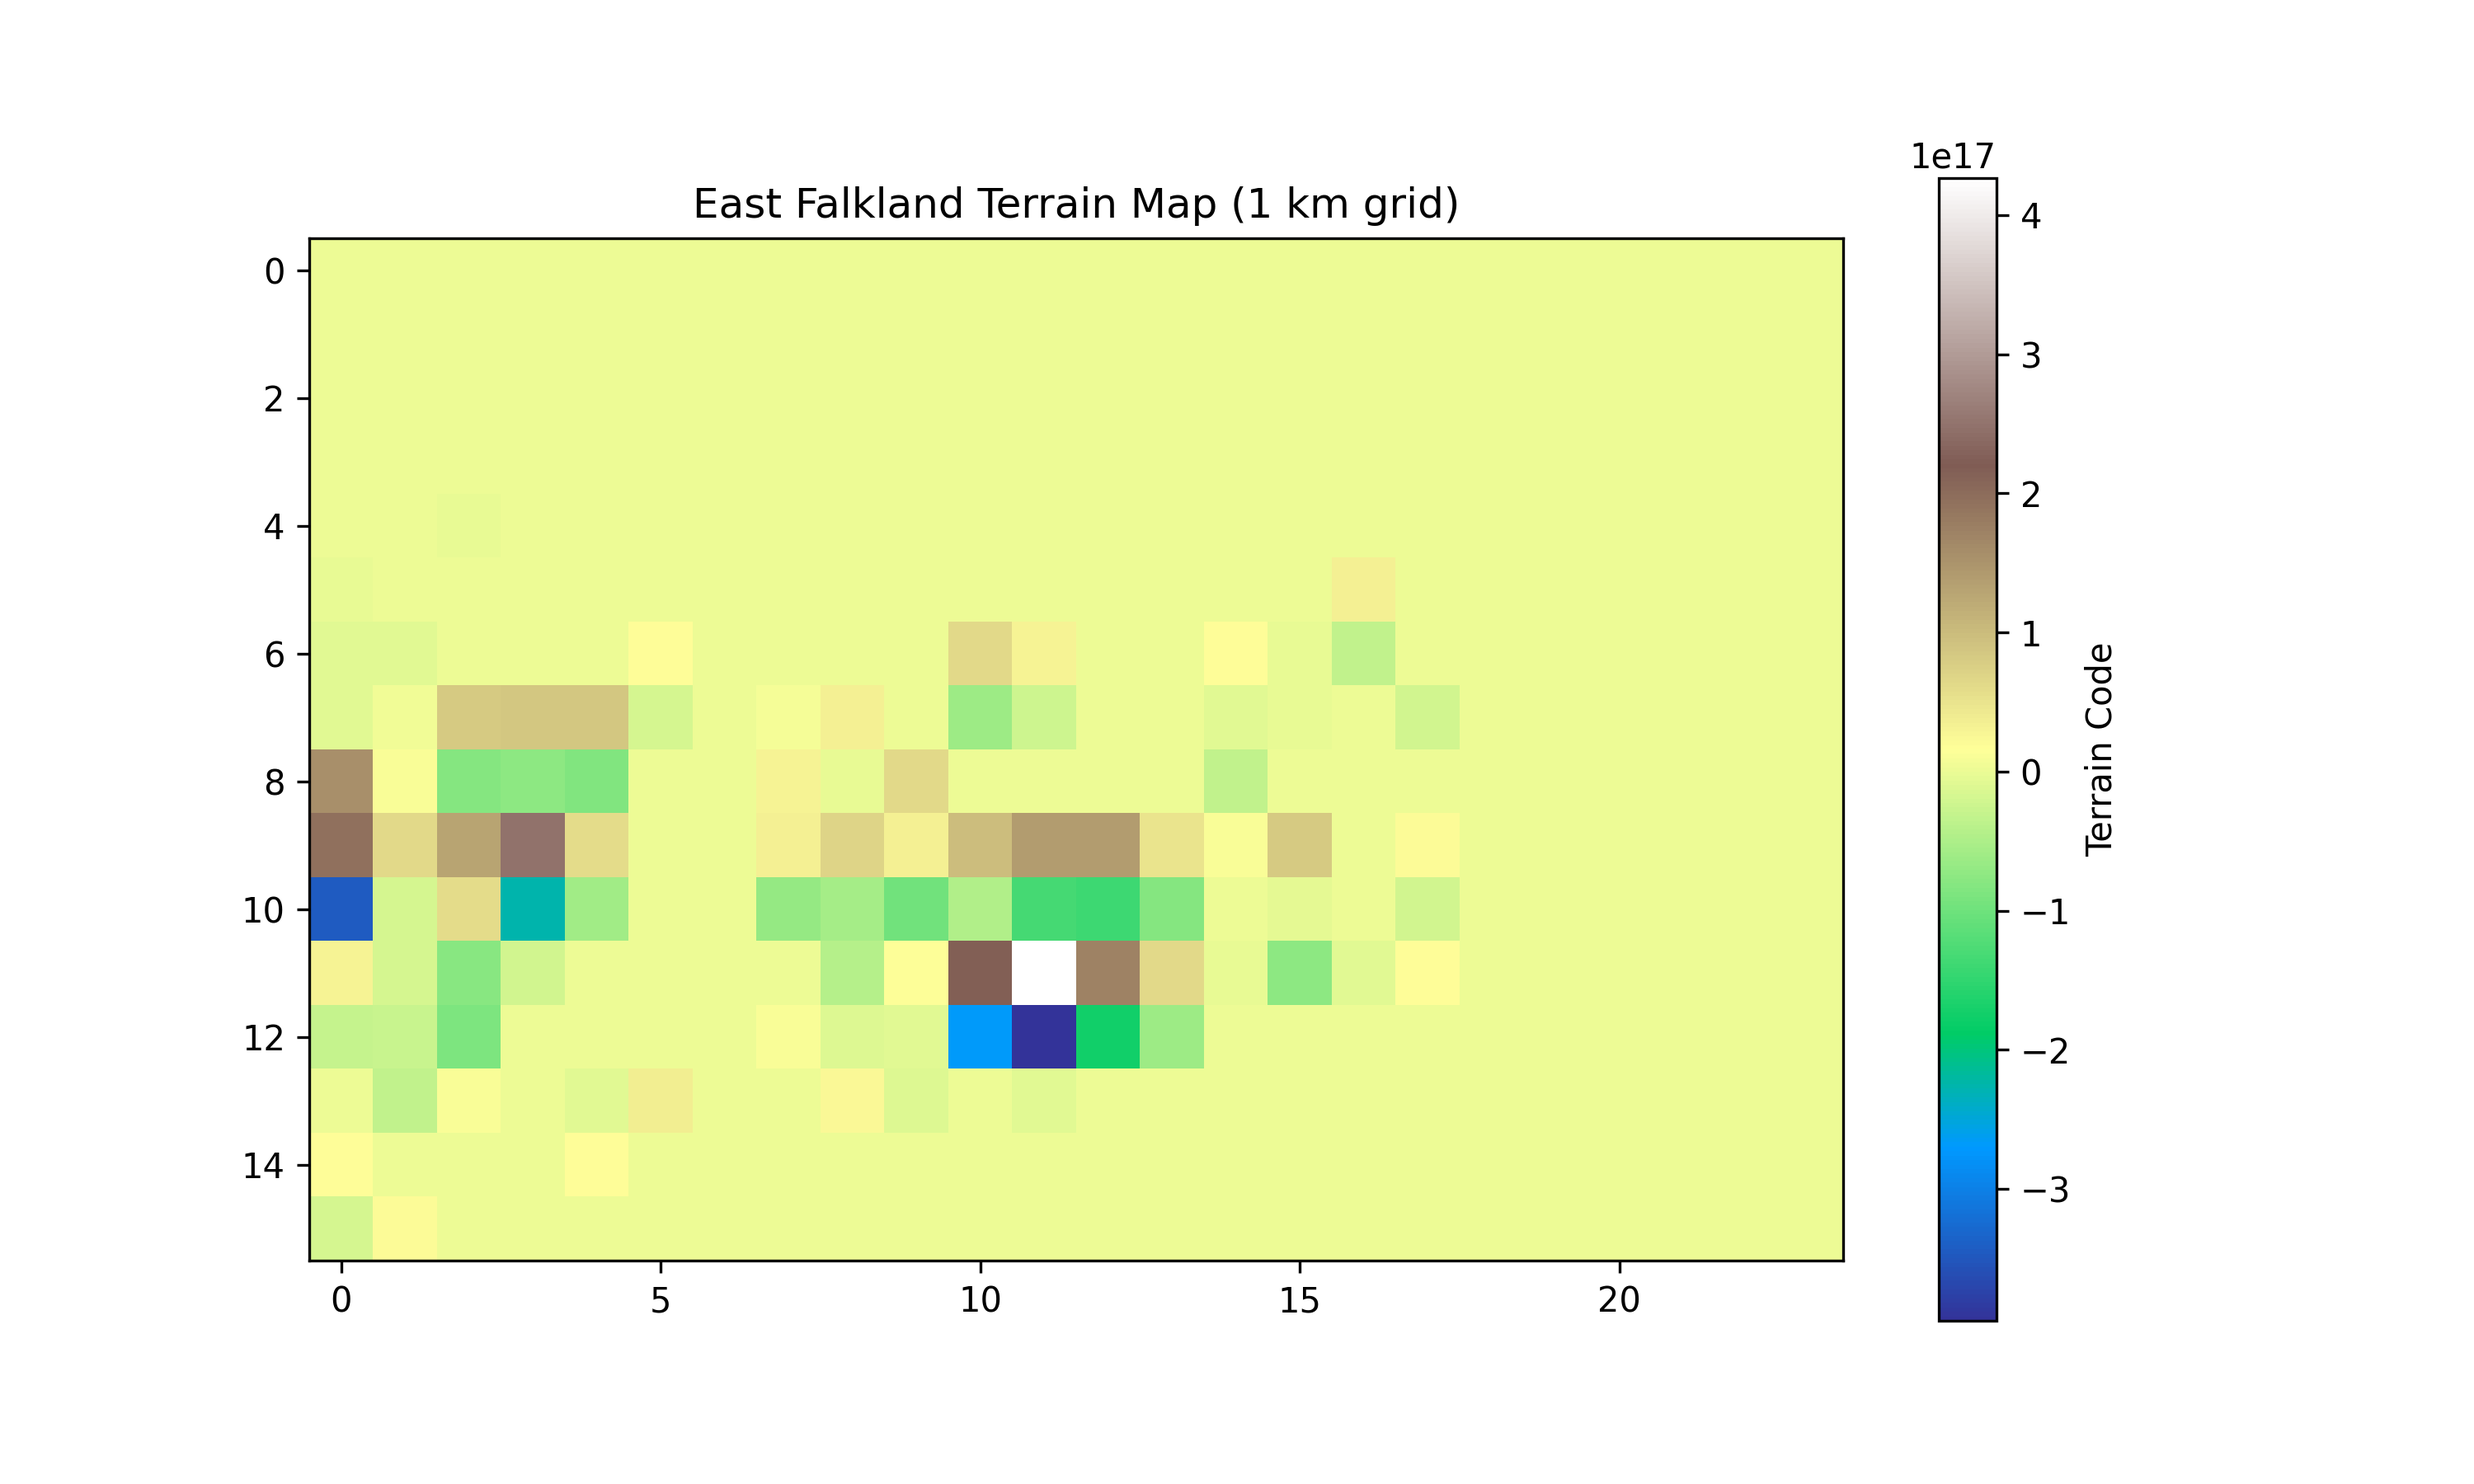
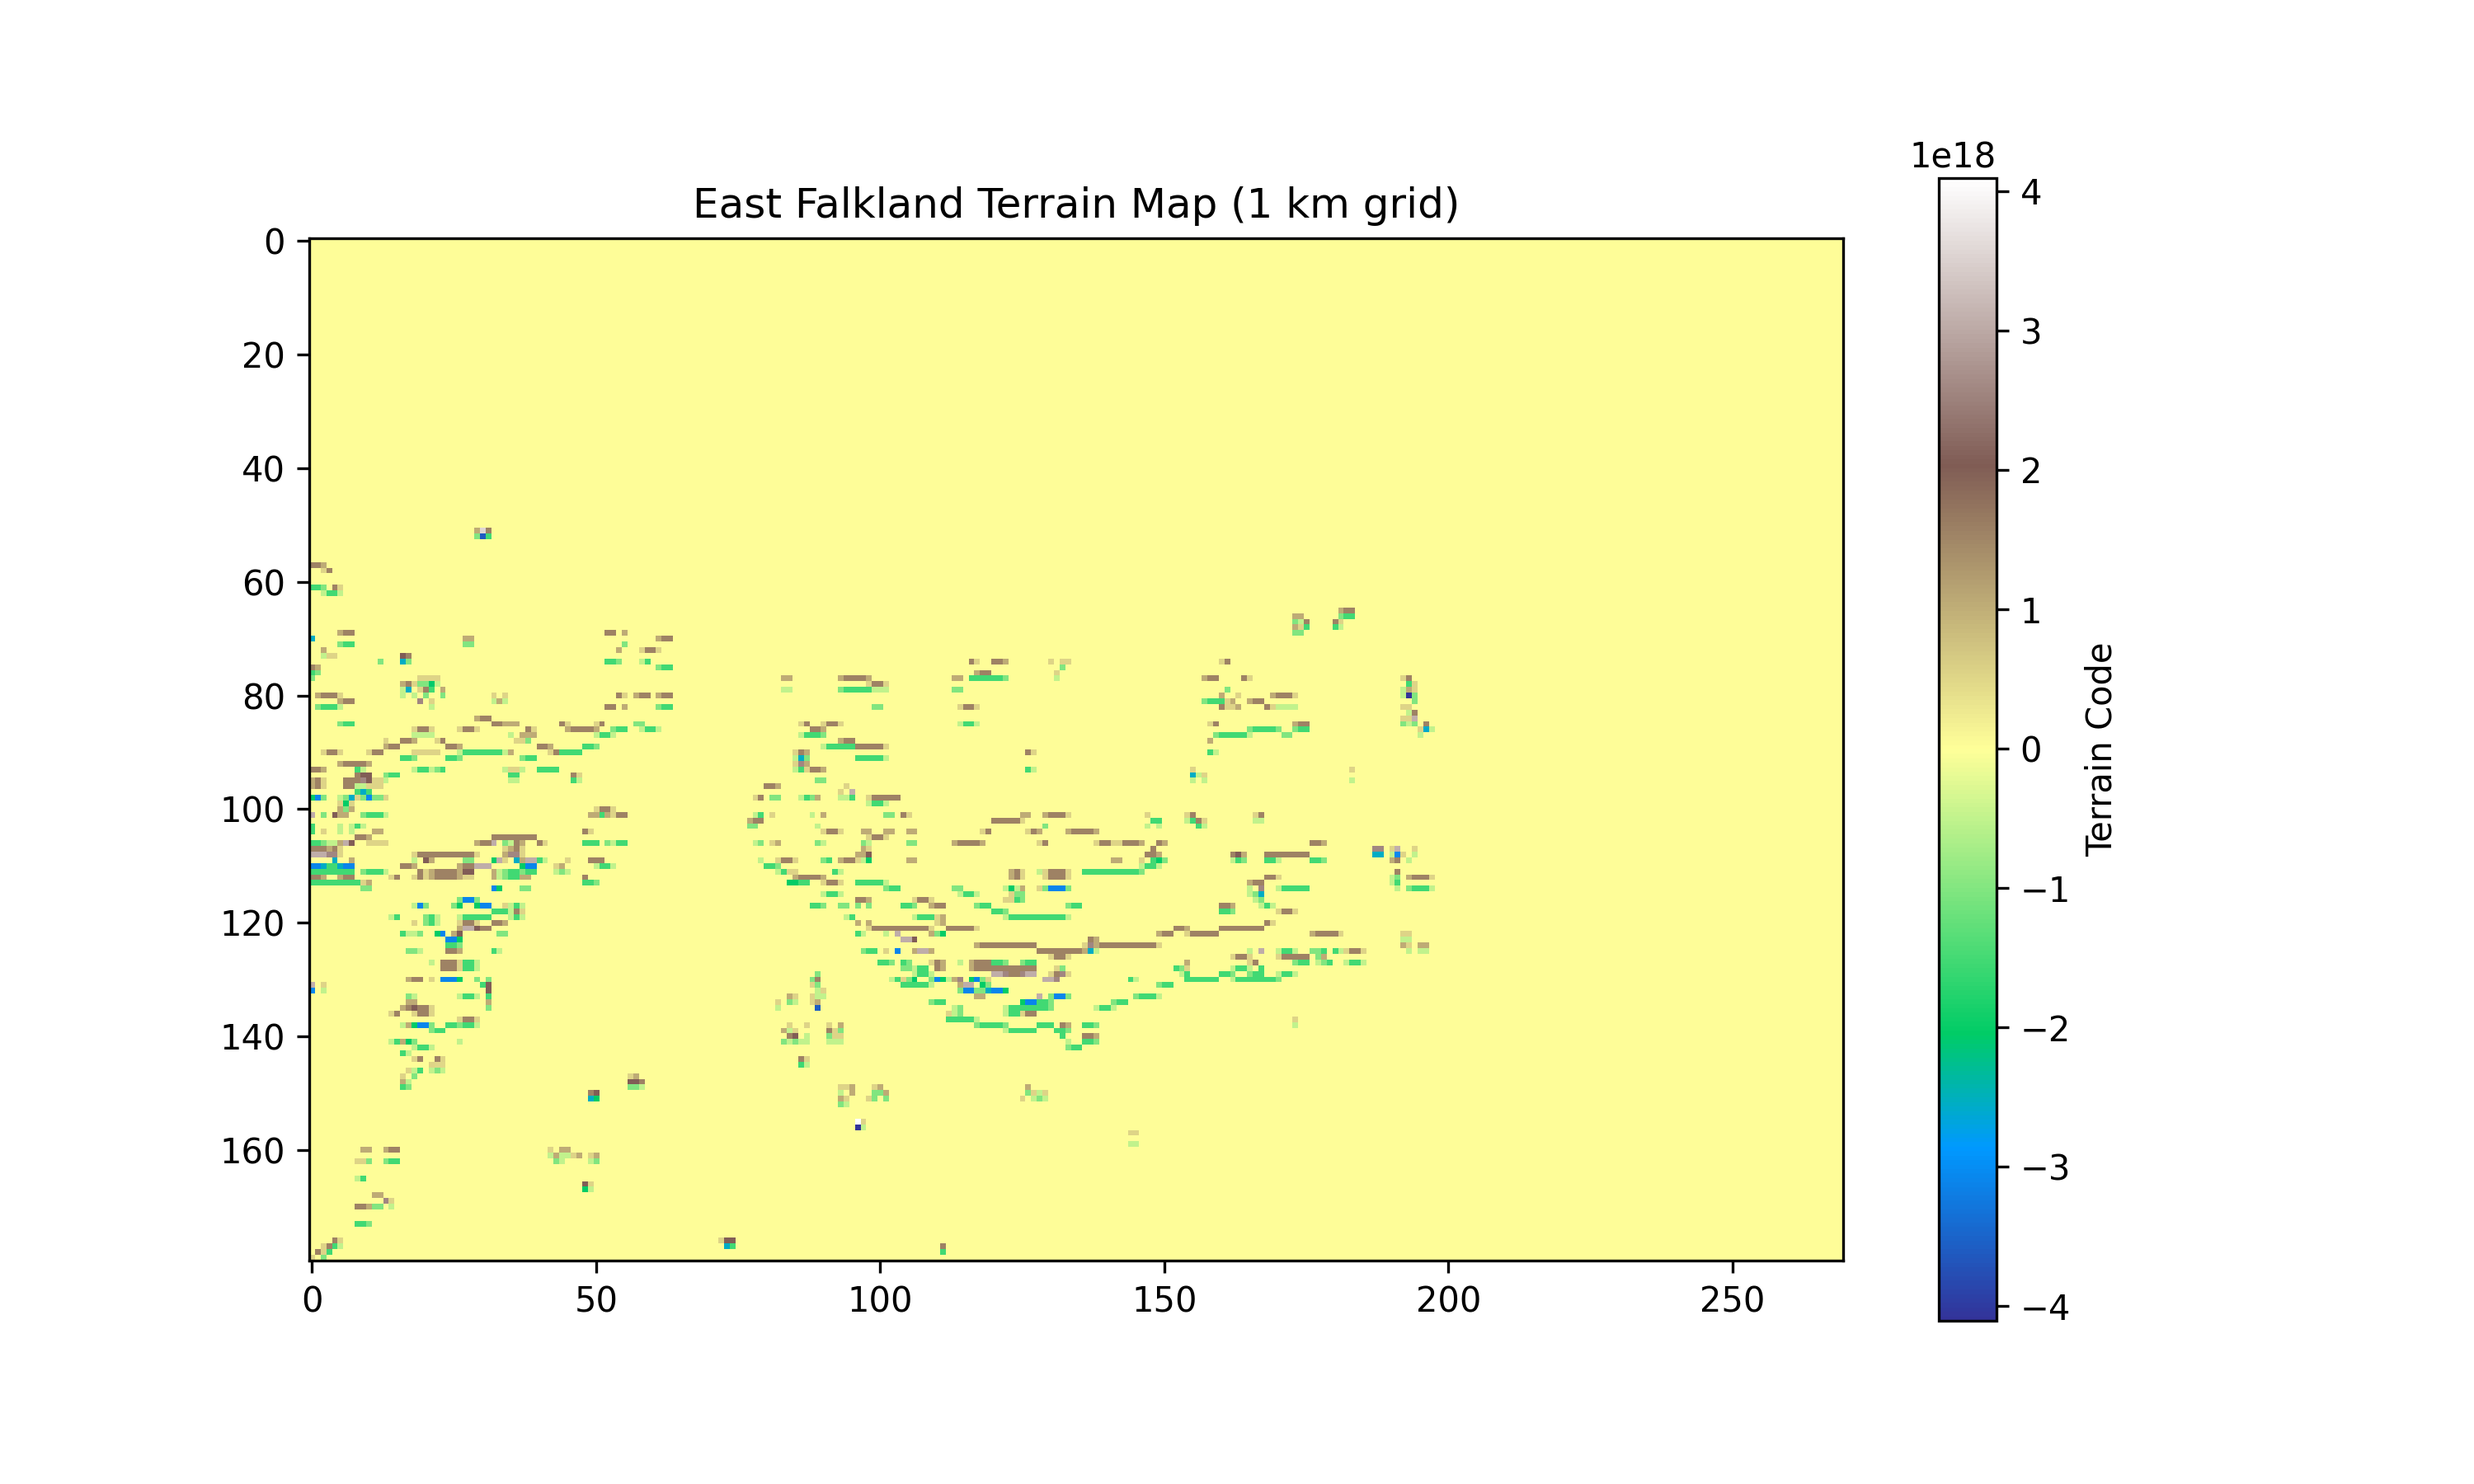
new update for v2 pipeline
this update changes to 1KM to 100m

diff --git a/elliott-terrain-processingv2.py b/elliott-terrain-processingv2.py
@@ -74,7 +74,7 @@ def main():
 
     print("Resampling DEM to 1 km grid...")
 
-    scale_factor = int(1000 / 30)
+    scale_factor = int(100 / 30)
 
     rows = terrain.shape[0] // scale_factor * scale_factor
     cols = terrain.shape[1] // scale_factor * scale_factor
